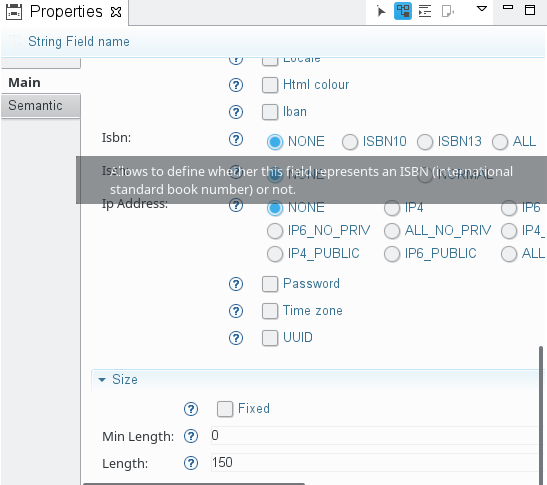
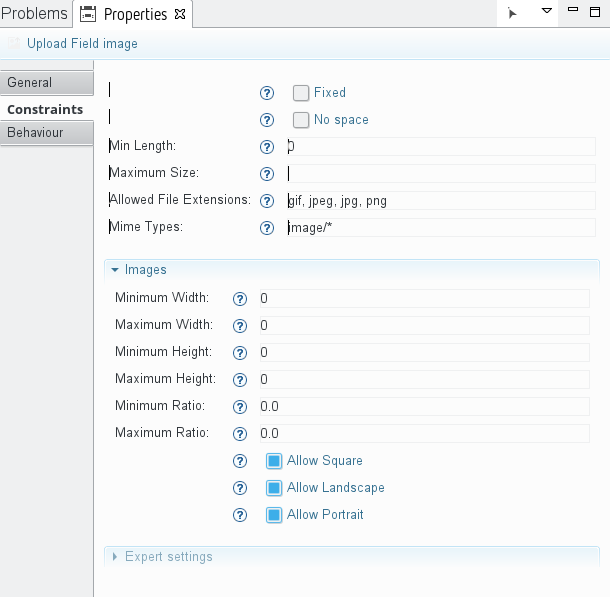
overhauled properties view

diff --git a/bundles/de.guite.modulestudio.help/doc/87-GeneratorReference.md b/bundles/de.guite.modulestudio.help/doc/87-GeneratorReference.md
@@ -10,7 +10,7 @@ As Zikula uses Symfony and the Doctrine ORM layer, the data layer in ModuleStudi
 
 From each entity in the data layer there are entity classes and repository classes created. Therewith the contained fields as well as their properties are accordingly reflected. For many data types and basic properties, like *unique*, *readonly* or *notnull* this happens with a one to one adaption. Several things are shortened for convenience in ModuleStudio though. Furthermore there are some additional data types, like for example for users, email addresses, urls and file uploads. An email field is treated by the generator as a string field in Doctrine which has the email validator activated.
 
-Validators are generally not explicitly written in MOST, but simply defined using properties. So there are for example attributes like *nospace*, *country*, *ipaddress*, *htmlcolour* and many more for string fields. Date and time fields have according properties for *past* and *future*.
+Validators are generally not explicitly written in MOST, but simply defined using properties. So there are for example attributes like *nospace* and *ipaddress* for string fields. Date and time fields have according properties for *past* and *future*.
 
 The different types of relations in Doctrine are all offered, too. For inheritance relationships the strategy can be selected (single table, joined). All other connection types store a name for the two entities on both sides (source alias and target alias) as well as the referenced fields (source field and target field). Because the primary id fields of entities are not part of the model, but automatically added before the generation, the string `id` is allowed and also set per default. By changing these fields it is possible to describe also relations referencing other fields. Beside this it is possible to have multiple relationships between the same entities and also self relations, as long as their alias settings are unique. Finally you can also define how the cascading behaviour should look like, again supporting all options offered by Doctrine.
 
@@ -151,7 +151,7 @@ Can be one of the following options:
 * `RECOMMENDATION` - The module is recommended, for example to provide enhanced integration functionality.
 * `CONFLICT` - The module is in conflict with the modeled one, for example due to overlapping functionality.
 
-The generator uses this value in the corresponding module dependency created in the version class.
+The generator uses this value in the corresponding module dependency created in the `composer.json` file.
 
 #### Hook provider mode
 
@@ -387,30 +387,37 @@ Represents a field type for storing string values.
 
 A string field has the following properties in addition to the common [abstract string field](#abstract-string-field) settings:
 
-* **bic** - A boolean specifying whether this field represents a [BIC (business identifier code)](https://en.wikipedia.org/wiki/Business_Identifier_Code) or not. Default value is `false`.
-* **country** - A boolean specifying whether this field represents a [ISO 3166-1 alpha-2](https://en.wikipedia.org/wiki/ISO_3166-1#Current_codes) country code or not. Default value is `false`. If set to `true` a country selector is used in [edit pages](#edit-action). For the output in [view](#view-action) and [display](#display-action) templates an output modifier is used to display the full country name instead of the unreadable country code. If the field is not `mandatory` the edit selector provides a placeholder entry named *All*.
-* **creditCard** - A boolean to specify whether this field represents a credit card number or not. Default value is `false`.
-* **currency** - A boolean to specify whether this field represents a [3-letter ISO 4217](https://en.wikipedia.org/wiki/ISO_4217) currency name or not. Possible example values are `USD` or `EUR`. Default value is `false`. In [edit forms](#edit-action) it will be rendered as a currency selector. If the field is not `mandatory` the edit selector provides a placeholder entry named *All*.
-* **dateInterval** - A boolean specifying whether this field represents an interval of time or not. Default value is `false`. The interval is persisted as a [ISO 8601](https://en.wikipedia.org/wiki/ISO_8601#Durations) duration string. Only applicable for the `ZK20` target.
-* **htmlcolour** - A boolean specifying whether this field represents a html color code (like `#003399`) or not. Default value is `false`. If set to `true` a colour picker is used in [edit pages](#edit-action) for convenient selection of colour codes.
-
-![Example for colour and language selectors](images/generator_colour_language.png "Example for colour and language selectors")
-
-* **iban** - A boolean to specify whether this field represents a bank account number in [IBAN (International Bank Account Number)](https://en.wikipedia.org/wiki/International_Bank_Account_Number) format. Default value is `false`.
 * **isbn** - Allows to define whether this field represents a number in [ISBN (International Standard Book Number)](https://en.wikipedia.org/wiki/Isbn). Default value is `NONE`. You can choose from different [validation options](#isbn-style).
 * **issn** - Allows to define whether this field represents a number in [ISSN (International Standard Serial Number)](https://en.wikipedia.org/wiki/Issn). Default value is `NONE`. You can choose from different [validation options](#issn-style).
 * **ipAddress** - Allows to define whether this field represents an IP address. Default value is `NONE`. You can choose the covered [ip address scope](#ip-address-scope).
 * **ipTraceable** - Which [ipTraceable type](#entity-iptraceable-type) is used. Default value is `NONE`.
 * **ipTraceableChangeTriggerField** - Optional name of field to use as change trigger (if type is `CHANGE`. Can also be `workflowState` or the name of a relation (syntax `property.field`).
 * **ipTraceableChangeTriggerValue** - Optional value of field to use as change trigger (if type is `CHANGE`).
-* **language** - A boolean specifying whether this field represents an [Unicode language](http://site.icu-project.org/) identifier or not. Possible example values are `fr` or `zh-Hant`. Default value is `false`. If set to `true` a language selector is used in [edit pages](#edit-action). For the output in [view](#view-action) and [display](#display-action) templates an output modifier is used to display the full name instead of the unreadable language code. If the field is not `mandatory` the edit selector provides a placeholder entry named *All*.
 * **length** - The length of this field. Default value is `255`.
-* **locale** - A boolean to specify whether this field represents a locale or not. Possible example values are `fr` ([ISO 639-1 code](https://en.wikipedia.org/wiki/List_of_ISO_639-1_codes)) or `fr_FR` (ISO 639-1 followed by [ISO 3166-1 alpha-2](https://en.wikipedia.org/wiki/ISO_3166-1#Current_codes) country code). Default value is `false`. If set to `true` the field will be rendered as a locale selector in [edit forms](#edit-action). If the field is not `mandatory` the edit selector provides a placeholder entry named *All*.
-* **password** - A boolean specifying whether this field represents a password or not. Default value is `false`. If set to `true` a password input element will be used instead of a normal one in [edit pages](#edit-action). Password fields are not shown on [view](#view-action) and [display](#display-action) pages for security reasons.
-* **timezone** - A boolean specifying whether this field represents a time zone or not. Default value is `false`. In [edit forms](#edit-action) timezone fields will be rendered using a time zone selector.
-* **uuid** - A boolean specifying whether this field represents an [UUID (Universally Unique Identifier)](http://en.wikipedia.org/wiki/Universally_unique_identifier) or not.
+* **role** - Allows to define a semantic role for this field. Default value is `NONE`. The available options are explained [below](#string-role).
 
-In [edit pages](#edit-action) the generator will use single-line input elements for string fields - except you defined something else (using options like `language` or `password`). Other validations are added together and applied as well.
+In [edit pages](#edit-action) the generator will use single-line input elements for string fields - except you defined something else (using options like `role` or `isbn`). Other validations are added together and applied as well.
+
+#### String role
+
+Represents different semantic roles a [string field](#string-field) can have.
+
+Can be one of the following options:
+
+* `NONE` - Default value. Means that the corresponding [string field](#string-field) just represents a string without special semantic.
+* `BIC` - A [BIC (business identifier code)](https://en.wikipedia.org/wiki/Business_Identifier_Code).
+* `COLOUR` - A html color code (like `#003399`). A colour picker is used in [edit pages](#edit-action) for convenient selection of colour codes.
+* `COUNTRY` - A [ISO 3166-1 alpha-2](https://en.wikipedia.org/wiki/ISO_3166-1#Current_codes) country code. A country selector is used in [edit pages](#edit-action). For the output in [view](#view-action) and [display](#display-action) templates an output modifier is used to display the full country name instead of the unreadable country code. If the field is not `mandatory` the edit selector provides a placeholder entry named *All*.
+* `CREDIT_CARD` - A credit card number. By default all available card schemes provided by [Symfony validator](https://symfony.com/doc/current/reference/constraints/CardScheme.html#schemes) are allowed.
+* `CURRENCY` - A [3-letter ISO 4217](https://en.wikipedia.org/wiki/ISO_4217) currency name. Possible example values are `USD` or `EUR`. In [edit forms](#edit-action) it will be rendered as a currency selector. If the field is not `mandatory` the edit selector provides a placeholder entry named *All*.
+* `DATE_INTERVAL` - An interval of time which is persisted as a [ISO 8601](https://en.wikipedia.org/wiki/ISO_8601#Durations) duration string. Only applicable for the `ZK20` target.
+* `IBAN` - A bank account number in [IBAN (International Bank Account Number)](https://en.wikipedia.org/wiki/International_Bank_Account_Number) format.
+* `LANGUAGE` - An [Unicode language](http://site.icu-project.org/) identifier. Possible example values are `fr` or `zh-Hant`. A language selector is used in [edit pages](#edit-action). For the output in [view](#view-action) and [display](#display-action) templates an output modifier is used to display the full name instead of the unreadable language code. If the field is not `mandatory` the edit selector provides a placeholder entry named *All*.
+* `LOCALE` - A locale. Possible example values are `fr` ([ISO 639-1 code](https://en.wikipedia.org/wiki/List_of_ISO_639-1_codes)) or `fr_FR` (ISO 639-1 followed by [ISO 3166-1 alpha-2](https://en.wikipedia.org/wiki/ISO_3166-1#Current_codes) country code). The field will be rendered as a locale selector in [edit forms](#edit-action). If the field is not `mandatory` the edit selector provides a placeholder entry named *All*.
+* `PASSWORD` - A password. For this a password input element will be used instead of a normal one in [edit pages](#edit-action). Password fields are not shown on [view](#view-action) and [display](#display-action) pages for security reasons.
+* `TIME_ZONE` - A time zone. In [edit forms](#edit-action) such fields will be rendered using a time zone selector.
+* `UUID` - An [UUID (Universally Unique Identifier)](http://en.wikipedia.org/wiki/Universally_unique_identifier).
+
 
 #### ISBN style
 

diff --git a/bundles/de.guite.modulestudio.help/doc/85-ValidationReference.md b/bundles/de.guite.modulestudio.help/doc/85-ValidationReference.md
@@ -173,19 +173,19 @@ The following list has been merged and includes therefore all keywords of all su
 
 * String size must not be smaller than `1`. Occurs if length is set to `0`.
 * String size must be larger than minimum length. If you set a minimum length it must not be larger than the actual field length.
-* String length for bic numbers must be at least `12` chars. Occurs if you activate the `bic` property for a field with a length smaller than `12`.
-* String length for credit card numbers must be at least `20` chars. Occurs if you activate the `credit card` property for a field with a length smaller than `20`.
-* String length for country codes must be at least `2` chars. Occurs if you activate the `country` property for a field with a length smaller than `2`.
-* String length for currency codes must be at least `3` chars. Occurs if you activate the `currency` property for a field with a length smaller than `3`.
-* String length for iban numbers must be at least `34` chars. Occurs if you activate the `iban` property for a field with a length smaller than `34`.
-* String length for languages must be at least `7` chars. Occurs if you activate the `language` property for a field with a length smaller than `7`.
-* String length for locales must be at least `5` chars. Occurs if you activate the `locale` property for a field with a length smaller than `5`.
-* String length for HTML colour codes must be at least `7` chars. Occurs if you activate the `html colour` property for a field with a length smaller than `7`.
+* String length for bic numbers must be at least `12` chars. Occurs if you activate the `bic` role for a string field with a length smaller than `12`.
+* String length for colour codes must be at least `7` chars. Occurs if you activate the `colour` role for a string field with a length smaller than `7`.
+* String length for country codes must be at least `2` chars. Occurs if you activate the `country` role for a string field with a length smaller than `2`.
+* String length for credit card numbers must be at least `20` chars. Occurs if you activate the `credit card` role for a string field with a length smaller than `20`.
+* String length for currency codes must be at least `3` chars. Occurs if you activate the `currency` role for a string field with a length smaller than `3`.
+* String length for iban numbers must be at least `34` chars. Occurs if you activate the `iban` role for a string field with a length smaller than `34`.
+* String length for languages must be at least `7` chars. Occurs if you activate the `language` role for a string field with a length smaller than `7`.
+* String length for locales must be at least `5` chars. Occurs if you activate the `locale` role for a string field with a length smaller than `5`.
 * String length for ip addresses must be at least `15` chars. Occurs if you set the `ip address` property to a value covering IPv4 addresses for a field with a length smaller than `15`.
 * String length for ip addresses must be at least `39` chars. Occurs if you set the `ip address` property to a value covering IPv6 addresses or if you enable the `ipTraceable` extension for a field with a length smaller than `39`.
-* String length for time zones must be at least `30` chars. Occurs if you activate the `timezone` property for a field with a length smaller than `30`.
-* String length for uuids must be at least `36` chars. Occurs if you activate the `uuid` property for a field with a length smaller than `36`.
-* A string can only be one of bic, country, creditCard, currency, dateInterval, language, locale, htmlcolour, iban, isbn, issn, ip address, password, timezone and uuid.
+* String length for time zones must be at least `30` chars. Occurs if you activate the `timezone` role for a string field with a length smaller than `30`.
+* String length for uuids must be at least `36` chars. Occurs if you activate the `uuid` role for a string field with a length smaller than `36`.
+* A string can only have one special semantic (role, isbn, issn, ip address).
 * String length must not be greater than `255`; for bigger sizes use text fields.
 * The default value for an email field must be a valid email address.
 * The default value for an url field must be a valid url. Allowed protocols are `http`, `ftp` and `https`.

diff --git a/bundles/de.guite.modulestudio.help/doc/33-Views.md b/bundles/de.guite.modulestudio.help/doc/33-Views.md
@@ -82,21 +82,17 @@ When using the diagram editor it is also possible to use the outline view for hi
 
 ## Properties view
 
-The properties view allows you to change the properties of model elements. At the moment it contains two tabs named *Main* and *Semantic*.
+The properties view allows you to change the properties of model elements. Depending on your currently selected element it may contain no, one or multiple tabs. For most elements the following tabs are used:
 
-The *Main* tab is the primary one and offers a form-based interface. Properties are grouped into sections which can be collapsed. Different property types are represented by different types of input fields, like text fields, checkboxes, radio buttons or drop-down lists.
+* **General:** basic settings like name, documentation or length of a field.
+* **Constraints:** anything affecting validation, for example a minimum width for an image upload field.
+* **Behavior:** all aspects relating functional enhancements.
+
+Each tab may contain one or multiple sections which can be collapsed and expanded. Using a form-based interface different property types are represented by various types of widgets, like text fields, checkboxes, radio buttons or drop-down lists.
 
 ![Form-based properties](images/ui_views_properties_main.png "Form-based properties")
 
 Next to each field there is a question mark which shows a description on hover.
-
-The second tab, *Semantic*, shows the raw properties of the semantic elements in a tabular interface.
-
-![Table-based properties](images/ui_views_properties_semantic.png "Table-based properties")
-
-By default the *Semantic* tab shows not all properties, but only the basic ones. To see also the advanced properties, enable the *Show Advanced Properties* icon ![Show Advanced Properties](images/ui_views_properties_advanced.png) in the view's toolbar.
-
-As it may be dangerous to edit raw properties directly, the *Semantic* tab is going to be removed in a later version, but is currently also shown as a fallback.
 
 ## Problems view
 

diff --git a/bundles/de.guite.modulestudio.help/doc/98-Changelog.md b/bundles/de.guite.modulestudio.help/doc/98-Changelog.md
@@ -9,6 +9,10 @@
 * Added error tracking functionality and a setting to disable it.
 * Corrected missing icons for quick fixes.
 * Removed some unrequired preference pages.
+* Enumerations with many entries are now rendered as select widgets instead of radio widgets in property view.
+* Overhauled form-based property view, organising the properties into multiple tabs and sections.
+* Readded missing `minValue`/`maxValue` properties for integer fields to property view.
+* Removed the old tabular property view entirely.
 
 ### DSL / Modelling language changes
 
@@ -16,6 +20,7 @@
 * Added target version `ZK2DEV` to separate stable and development versions of Zikula 2.x. 
 * Minor improvements for validation of inheritance hierarchies (e.g. duplicate fields and actions, display pattern field references, no additional fields or actions).
 * Added support for hook providers (filter hooks, form aware hooks, UI hooks) (#15).
+* Several boolean flags of string fields (like `bic`, `country`, `locale`, and so on) are replaced by a single `role` property represented by a select widget. Note while your old models can still be opened these properties are **not migrated automatically**. This means you will have to set the `role` property to the desired semantics for your existing fields.
 
 ### Generator changes
 
